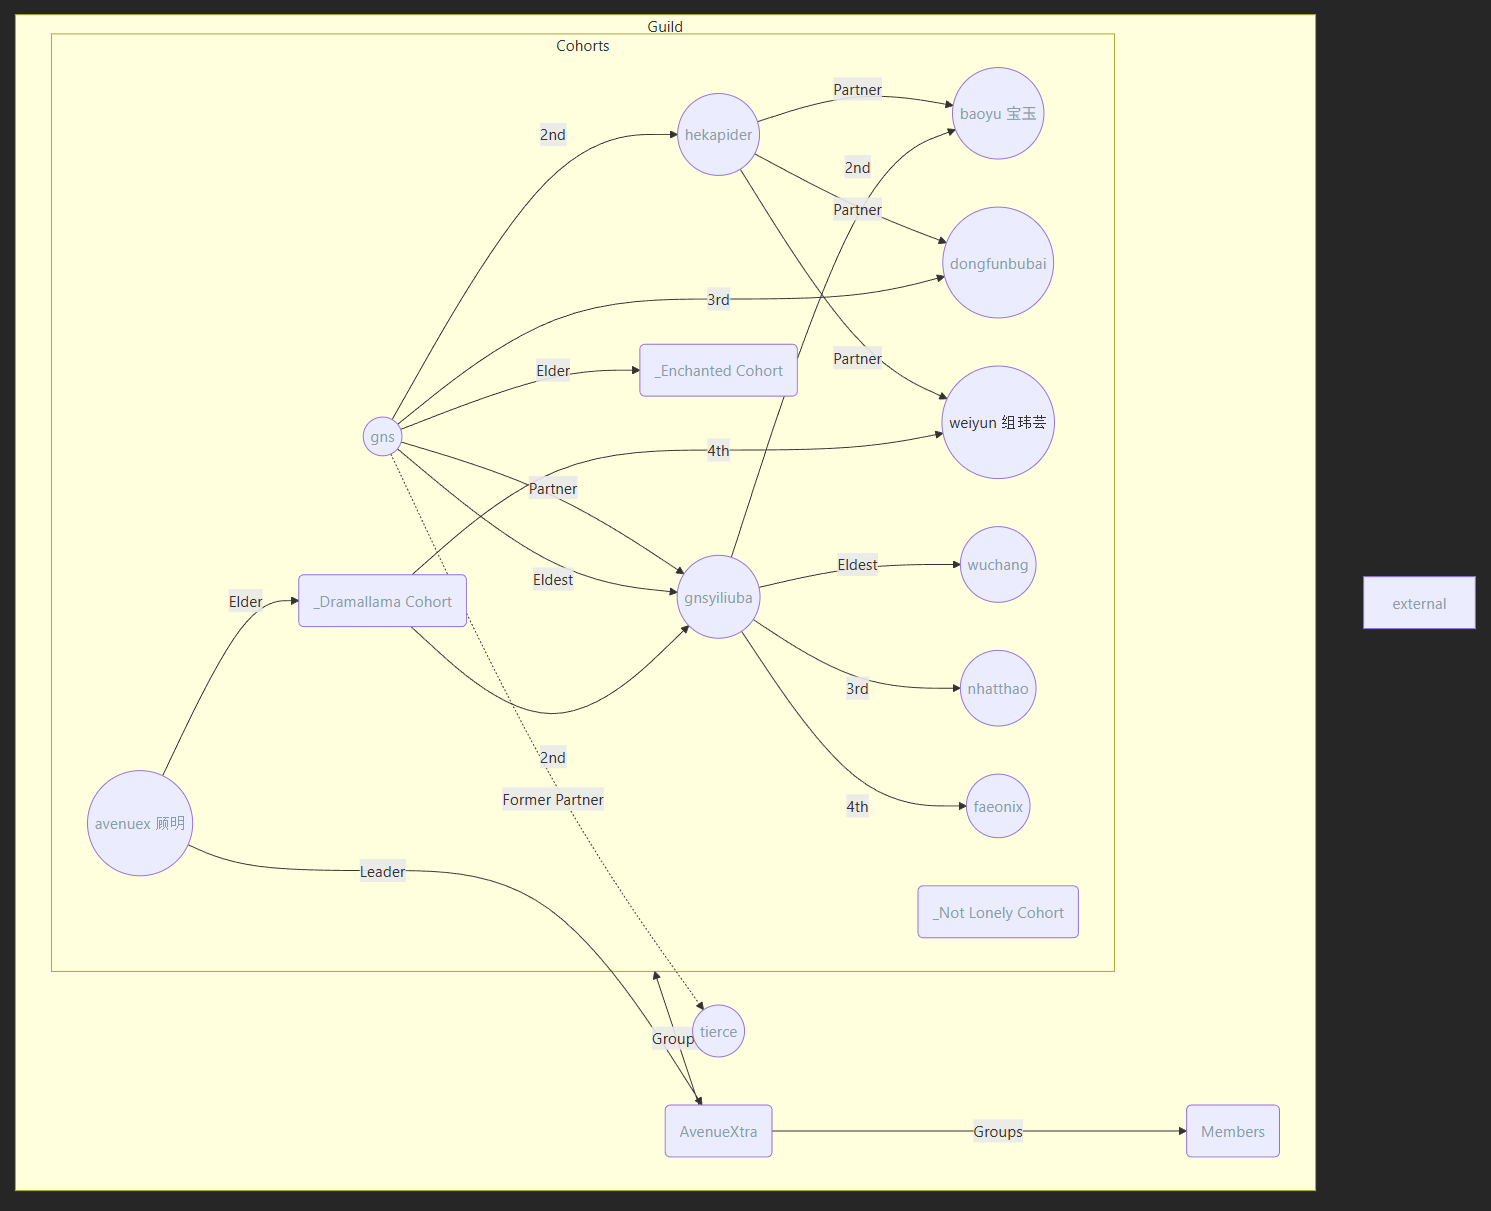
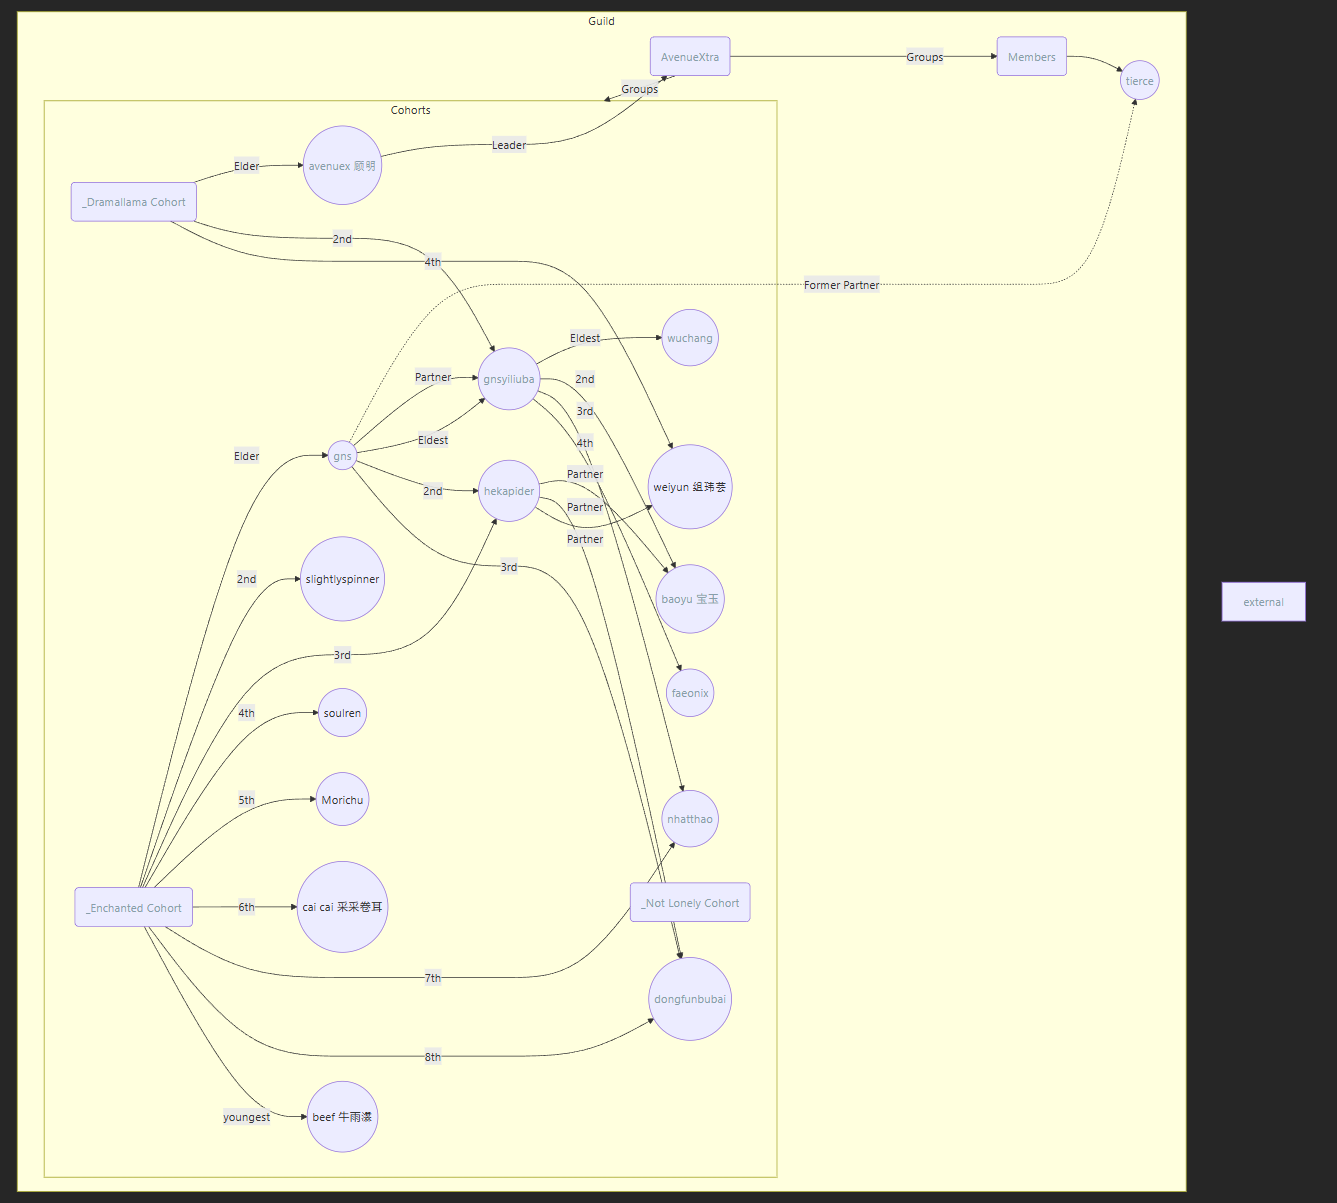
Quartz sync: Jun 20, 2026, 2:07 PM

diff --git a/content/Guild/AvenueXtra.md b/content/Guild/AvenueXtra.md
@@ -9,7 +9,7 @@ img: "[[guild.png]]"
 ---
 ![[banner.png]] 
 
-
+---
 ```mermaid
 graph TB
 
@@ -31,8 +31,14 @@ m7((faeonix))
 m8((hekapider))
 m9((dongfunbubai))
 m10((weiyun 组玮芸))
+m11((slightlyspinner))
+m12((soulren))
+m13((Morichu))
+m14((cai cai 采采卷耳))
+m15((beef 牛雨瀮))
 
 l --> |Leader| g
+m2 -.- |Former Partner| m3
 m2 --> |Partner| m1
 m2 --> |Eldest| m1
 m8 --> |Partner| m5((baoyu 宝玉))
@@ -41,21 +47,28 @@ m8 --> |Partner| m10((weiyun 组玮芸))
 
 subgraph Guild
 	g ---> |Groups| Cohorts & m
-	m
+	m --> m3
 	subgraph Cohorts
-		l --> |Elder| c1
+		c1 --> |Elder| l
 			c1 --> |2nd| m1
 				m1 --> |Eldest| m4
 				m1 --> |2nd| m5
 				m1 --> |3rd| m6
 				m1 --> |4th| m7
 			c1 --> |4th| m10
-		m2 --> |Elder| c2
-			m2 --> |2nd| m8
-			m2 --> |3rd| m9
+		c2 --> |Elder| m2
+				m2 --> |2nd| m8
+				m2 --> |3rd| m9
+			c2 --> |2nd| m11
+			c2 --> |3rd| m8
+			c2 --> |4th| m12
+			c2 --> |5th| m13
+			c2 --> |6th| m14
+			c2 --> |7th| m6
+			c2 --> |8th| m9
+			c2 --> |youngest| m15
 		c3
 	end
-	m2 -.- |Former Partner| m3
 end
 
 
@@ -65,7 +78,6 @@ end
 class g,c1,c2,c3,m,e internal-link
 class l,m1,m2,m3,m4,m5,m6,m7,m8,m9 internal-link
 ```
-
 ---
 
 # [[Cohorts]]

diff --git a/content/Guild/cohorts/_Enchanted Cohort.md b/content/Guild/cohorts/_Enchanted Cohort.md
@@ -20,6 +20,7 @@ Youngest:
 >|Fourth Younger: | [[soulren]] |
 >|Fifth Younger: | [[Morichu]] |
 >|Sixth Younger: | [[cai cai 采采卷耳]] |
+>|Seventh Younger: | [[nhatthao]] |
 >|Eighth Younger: | [[dongfunbubai]] |
 >|Ninth Younger: | [[beef 牛雨瀮]] |
 >|Youngest: | null |

diff --git a/content/index.md b/content/index.md
@@ -21,7 +21,6 @@ img: "[[guild.png]]"
 ---
 ![[org.png]]
 
-
 > [!info]- Graph Legend
 > Here is a quick reference for the callouts used in the graph view:
 > 
